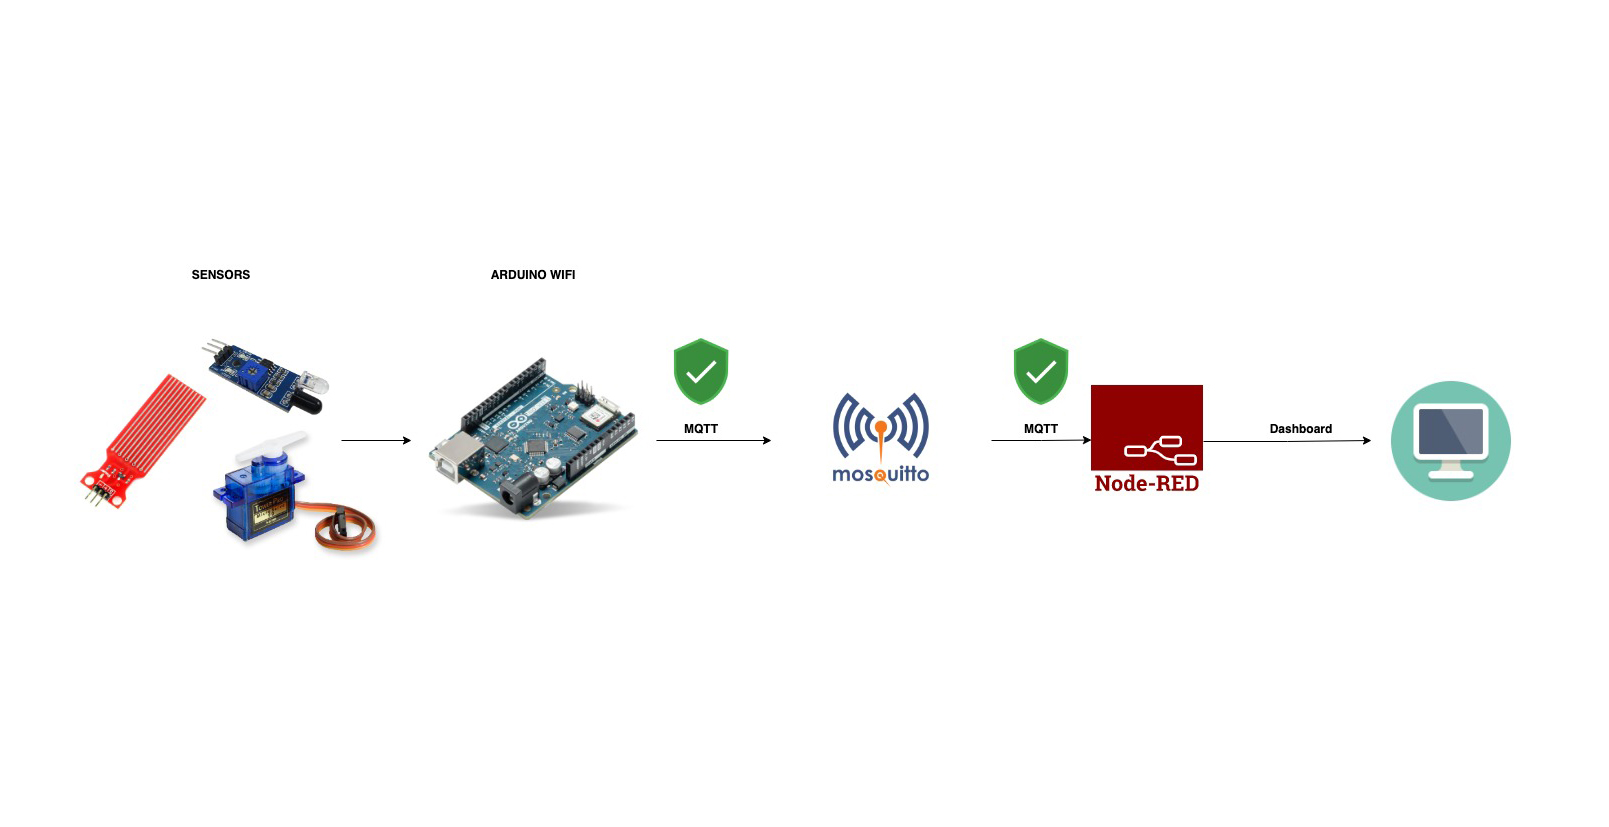
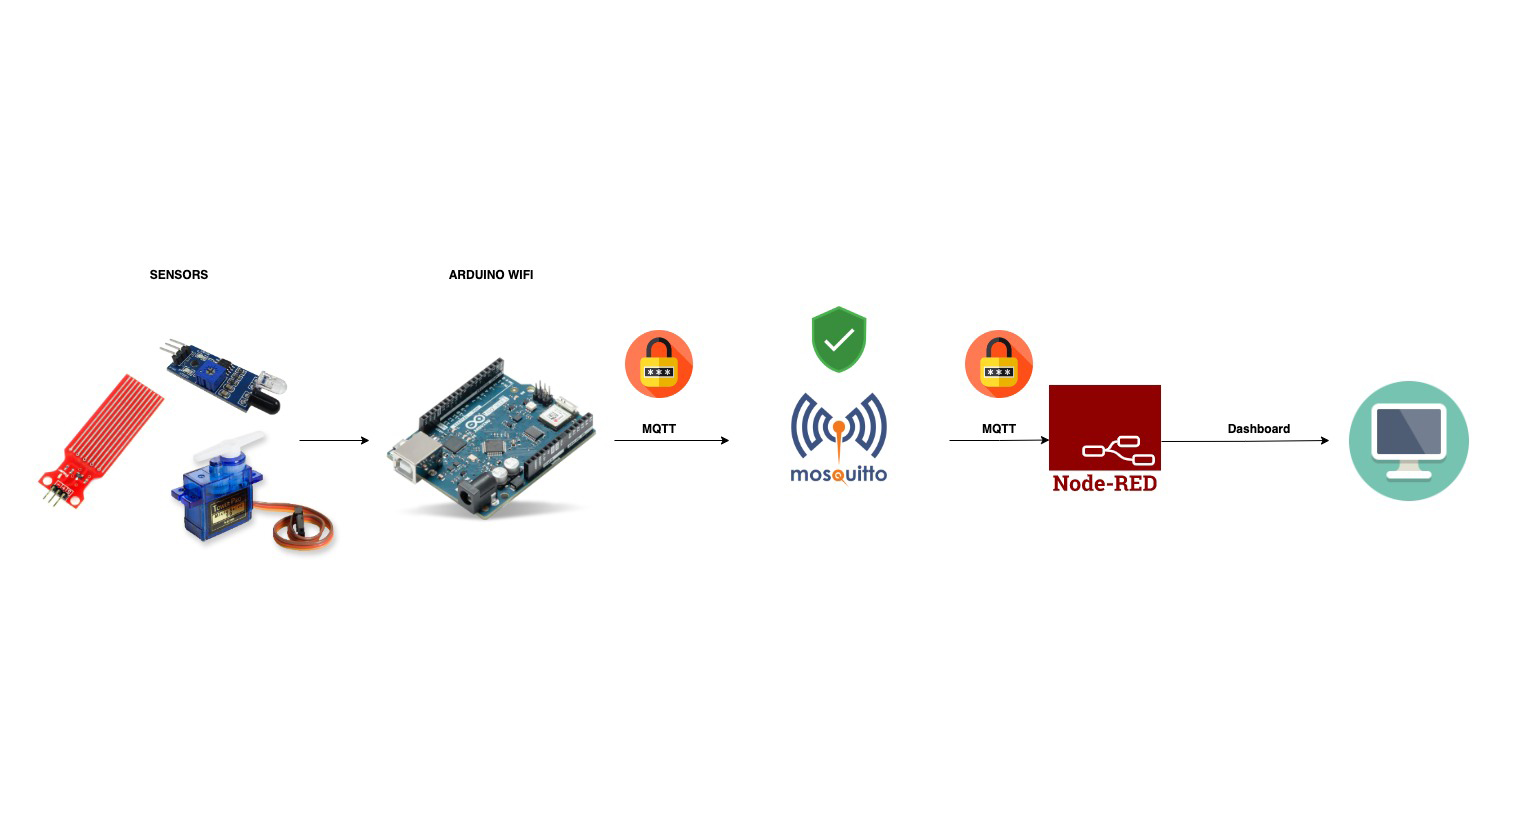
Add clients authentication.

diff --git a/README.md b/README.md
@@ -8,10 +8,14 @@ In this project the idea is to provide a secure communication between client and
 
 ## Architecture
 <p align="center"><img src="./images/architecture.jpg"/></p>
-The system consists of several sensors, connected to an Arduino board, which send information to a Mosquitto broker using the MQTT protocol. The broker then sends this information to a Dashboard built with Node-RED.
+The system consists of several sensors, connected to an Arduino board, which send information to a Mosquitto broker using the MQTT protocol. The broker then sends this information to a Dashboard built with Node-RED. 
+
+**Security aspects:**
+* Both clients are authenticated with username and password;
+* Certificates and keys were created for the Mosquitto broker only.
 
 
-# 1. Create Root CA
+# Create Root CA
 Create the Root CA is the first step to enable secure SSL/TLS communication. Once the RootCA has been created, it will be possible to use it to authenticate the Mosquitto broker's certificate.
 
 1. Open the terminal and go to the folder where you want to create the Root CA.
@@ -61,7 +65,7 @@ Create the Root CA is the first step to enable secure SSL/TLS communication. Onc
 
 
 
-# 2. Create certificate for the broker
+# Create certificate for the broker
 
 Now, you need to create a certificate for the Mosquitto broker and configure the broker properly to use the signed certificate.
 
@@ -94,7 +98,7 @@ Now, you need to create a certificate for the Mosquitto broker and configure the
    keyfile /path/to/broker.key
    ```
 
-# 3. Check if everything is working properly
+# Check if everything is working properly
 Before proceeding with sending the messages from the Arduino we will simulate the client to check if all the procedure carried out previously is correct.
 
 1. Start the broker. On macOS, you can use the following command.
@@ -107,9 +111,34 @@ Before proceeding with sending the messages from the Arduino we will simulate th
    ```
 3. Publish a test message on a test topic. In this command you need to replace the rootCA path and the hostname.
    ```
-   mosquitto_pub --cafile /Users/benedettosimone/Desktop/cryptoMat/rootCA.crt -h localhost -t topic/test -m "Test message"
+   mosquitto_pub --cafile /Users/benedettosimone/Desktop/cryptoMat/rootCA.crt -h localhost -t topic/test -m "Test message" -u arduino -P benedetto
+   ```
+# Username and password authentication
+To add an extra layer of security, the broker can be configured to require client authentication via a valid username and password before allowing the connection. Since we are using SSL/TLS, username and password will be encrypted during transmission.
+
+1. Create the password file and the new user with the following command. Then enter the password.
+   ```
+   mosquitto_passwd -c passwordfile <username>
+   ```
+   To add other users use the following command, adding username and password.
+   ```
+   mosquitto_passwd -b passwordfile <username> <password>
    ```
 
+2. Copy the `passwordfile` in the Mosquitto folder (/etc/mosquitto on macOS) and modify the `mosquitto.conf` adding the following lines.
+   ```
+   allow_anonymous false
+   password_file /path/to/passwordfile
+   ```
+
+3. Check if everything is working properly. Remember to set the username and password. 
+   ```
+   mosquitto_sub --cafile /Users/benedettosimone/Desktop/cryptoMat/rootCA.crt -h localhost -t topic/test -u <username> -P <password>
+   ```
+   ```
+   mosquitto_pub --cafile /Users/benedettosimone/Desktop/cryptoMat/rootCA.crt -h localhost -t topic/test -m "Test message" -u <username> -P <password>
+   ```
+   
 
 ## Developed by
 [Simone Benedetto](https://github.com/BenedettoSimone)<br>
